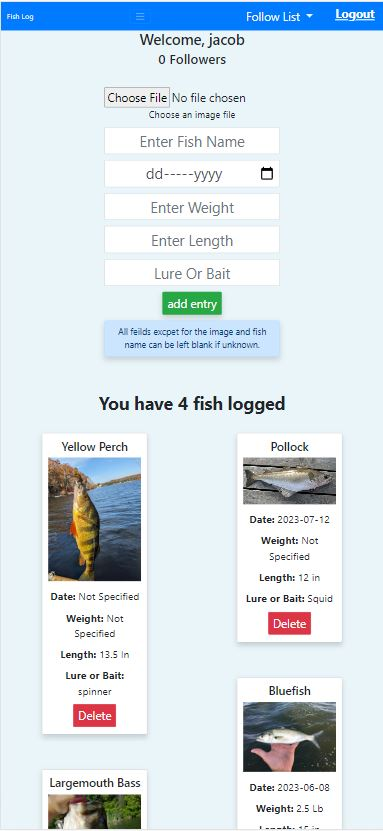
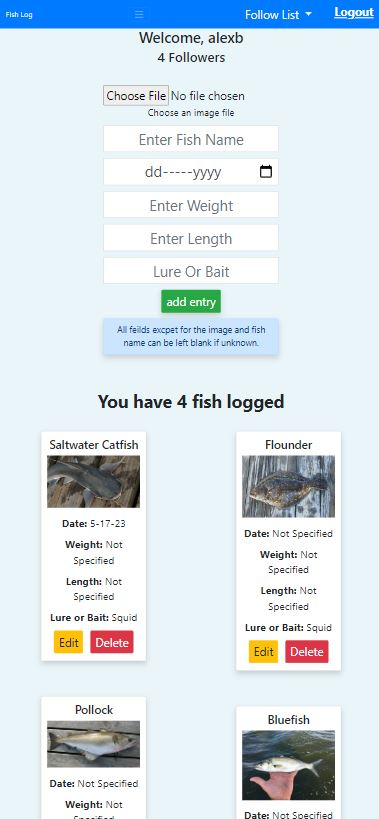
Updated readme and added new screenshots

Changed region(s): [[0.1161, 0.4579, 0.8997, 1.0], [0.0, 0.0, 1.0, 0.4274], [0.6675, 0.1832, 0.7256, 0.2137]]

diff --git a/README.md b/README.md
@@ -24,6 +24,9 @@ You can create your own login or use the guest account provided: Username: guest
 ### Homepage Mobile View
 ![](./screenshots/mobile-home.JPG)
 
+### Edit Mobile View
+![](./screenshots/mobile-edit.JPG)
+
 ### Profile page Mobile View
 ![](./screenshots/mobile-profile.JPG)
 
